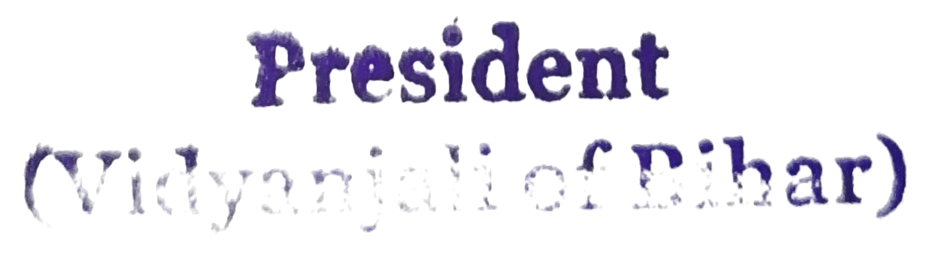
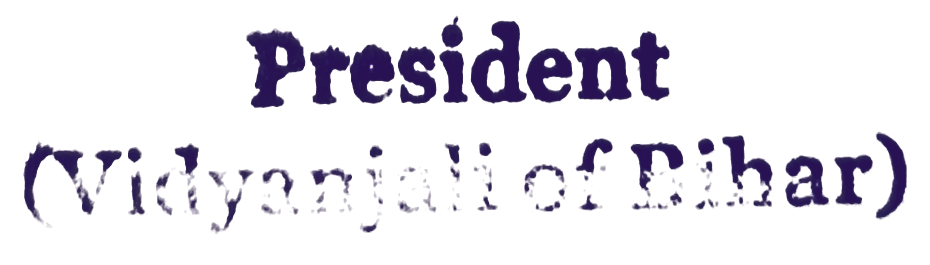
Add files via upload
Improve premium certificate decoration and stamp clarity

diff --git a/membership-certificate.js b/membership-certificate.js
@@ -39,6 +39,56 @@
     fill(navy);pdf.triangle(0,0,67,0,0,22,'F');pdf.triangle(W,H,W-66,H,W,H-14,'F');
     stroke(gold);pdf.setLineWidth(.9);pdf.rect(5,5,W-10,H-10);
     stroke(navy);pdf.setLineWidth(.25);pdf.rect(7,7,W-14,H-14);
+
+    // Approved premium ornaments — drawn as vectors so PDF stays crisp at A4 size.
+    function ellipse(x,y,rx,ry,color,angle=0){
+      fill(color);pdf.ellipse(x,y,rx,ry,'F');
+    }
+    function laurel(cx,cy,side){
+      stroke(gold);pdf.setLineWidth(.45);
+      for(let i=0;i<8;i++){
+        const yy=cy+i*4.1, xx=cx+side*(Math.sin(i/8*Math.PI)*8);
+        if(i>0){const py=cy+(i-1)*4.1,px=cx+side*(Math.sin((i-1)/8*Math.PI)*8);pdf.line(px,py,xx,yy);}
+        const theta=(i%2===0?1:-1)*side;
+        ellipse(xx+theta*2.5,yy-1.2,2.8,1.1,gold);
+      }
+    }
+    // Gentle watermark: stylized open book, behind the recipient's name.
+    fill([249,246,238]);
+    pdf.triangle(75,114,139,106,144,140,'F');
+    pdf.triangle(153,140,158,106,222,114,'F');
+    stroke([242,235,219]);pdf.setLineWidth(.4);
+    pdf.line(148.5,112,148.5,141);
+    for(let i=0;i<3;i++){
+      pdf.line(89,118+i*5,138,112+i*5);
+      pdf.line(159,112+i*5,208,118+i*5);
+    }
+    // Upper corner botanical flourishes.
+    laurel(64,33,-1);laurel(233,33,1);
+    // Gold corner curls and ornamented inner borders.
+    stroke(gold);pdf.setLineWidth(.55);
+    for(const [x,y,sx,sy] of [[11,11,1,1],[286,11,-1,1],[11,199,1,-1],[286,199,-1,-1]]){
+      pdf.line(x,y,x+sx*10,y);pdf.line(x,y,x,y+sy*10);
+      pdf.circle(x+sx*3,y+sy*3,1.3,'S');
+    }
+    // Gold & navy swooping bands at the bottom edge (behind content).
+    fill(gold);pdf.triangle(0,185,0,210,118,210,'F');
+    fill(navy);pdf.triangle(0,193,0,210,95,210,'F');
+    fill(gold);pdf.triangle(297,185,297,210,178,210,'F');
+    fill(navy);pdf.triangle(297,193,297,210,202,210,'F');
+    // Premium gold medallion, intentionally not a representation of the official seal.
+    ellipse(137,172,14.5,14.5,[214,160,35]);
+    ellipse(137,172,12.2,12.2,[250,220,111]);
+    ellipse(137,172,10.2,10.2,[191,127,20]);
+    ellipse(137,172,8.8,8.8,[251,229,143]);
+    stroke([138,88,15]);pdf.setLineWidth(.5);
+    pdf.line(131.5,170,137,172);pdf.line(137,172,142.5,170);
+    pdf.line(131.5,170,131.5,176);pdf.line(142.5,170,142.5,176);
+    pdf.line(131.5,176,137,178);pdf.line(137,178,142.5,176);
+    // Small gold ornaments below title.
+    ellipse(148.5,96,1.6,1.6,gold);
+    ellipse(143.5,96,.75,.75,gold);ellipse(153.5,96,.75,.75,gold);
+
     pdf.addImage(logo,'PNG',W/2-13,8,26,27);
     txt('Vidyanjali of Bihar',W/2,49,29,'times','bold');
     txt('Transformation through Education.',W/2,58,12,'times','italic',[34,34,34]);
@@ -60,10 +110,10 @@
     const dateText=Number.isNaN(d.getTime())?String(member.issue_date):d.toLocaleDateString('en-GB',{day:'numeric',month:'long',year:'numeric'});
     txt('Issue Date:',27,176,11,'times','bold',[30,30,30],'left');
     txt(dateText,57,176,12,'times','bold',navy,'left');
-    stroke(gold);pdf.setLineWidth(.6);pdf.line(119,150,119,186);pdf.line(228,150,228,186);
+    stroke(gold);pdf.setLineWidth(.6);pdf.line(118,151,118,186);pdf.line(229,151,229,186);
     // The images below are directly extracted from the uploaded original scan; never AI-redrawn.
     pdf.addImage(signature,'PNG',169,145,39,18);
-    pdf.addImage(stamp,'PNG',157,163,60,17);
+    pdf.addImage(stamp,'PNG',155.5,163,63,18);
     stroke(gold);pdf.setLineWidth(.35);pdf.line(159,181,216,181);
     txt('Yogendra Tiwari',187,188,11,'times','bold');
     txt('President',187,194,9,'times','normal');
